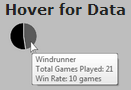
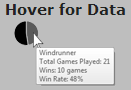
viz2: updated dod, created min value for radius bubble size, added charts to filter by type

Changed region(s): [[0.0611, 0.2222, 0.916, 0.9556]]

diff --git a/content/js/viz2_contentManager.js b/content/js/viz2_contentManager.js
@@ -1,12 +1,14 @@
   function viz2_contentManager() {
 	  
-	  if (default_view == true) {
+	  $('#ui-id-2').click(function(e) { 
+	  	if (default_view == true) {
 		    viz2_restablish_listview();
 			generateContent_viz2_byPopularity();
 		    popularity_exists = true;
 			default_view = false;
+		}
 		  
-	  }
+	  });
 	  
 	  $('#filterby_popularity').click(function(e) { 
 	  		if (popularity_exists == false && default_view == false) {
@@ -22,6 +24,7 @@
 			popularity_exists = false;
 			viz2_byTypeWrapper();
 			viz2_content_byType(1);
+			d3.select('#fragment-2').attr('style', 'height: 2250px');
 			
 			
 		});
@@ -30,6 +33,7 @@
 			popularity_exists = false;
 			viz2_byTypeWrapper();
 			viz2_content_byType(2);
+			d3.select('#fragment-2').attr('style', 'height: 2200px');
 			
 		});
 	$('#filterby_type_offlane').click(function(e) { 
@@ -37,6 +41,7 @@
 			popularity_exists = false;
 			viz2_byTypeWrapper();
 			viz2_content_byType(3);
+			d3.select('#fragment-2').attr('style', 'height: 1750px');
 			
 		});
 	$('#filterby_type_jungler').click(function(e) { 
@@ -44,6 +49,7 @@
 			popularity_exists = false;
 			viz2_byTypeWrapper();
 			viz2_content_byType(4);
+			d3.select('#fragment-2').attr('style', 'height: 1300px');
 			
 		});
 	$('#filterby_type_support').click(function(e) { 
@@ -51,6 +57,7 @@
 			popularity_exists = false;
 			viz2_byTypeWrapper();
 			viz2_content_byType(5);
+			d3.select('#fragment-2').attr('style', 'height: 2800px');
 		});
 		
   }
@@ -62,6 +69,8 @@
 		viz2content_outerLayer.append('div').attr('id', 'fragment-2-charts').attr('style', 'width:500px; float: left;');
 		viz2content_outerLayer.append('div').attr('id', 'fragment-2-left-info').attr('style', 'float: left; margin-left:20px;');
 		
+		d3.select('#fragment-2').attr('style', 'height: 9290px');
+		
   }
   
   function viz2_byTypeWrapper() {
@@ -69,5 +78,7 @@
 		d3.select('#viz2_content').remove();
 		var viz2content_outerLayer_byTypeWrapper = d3.select('#viz2_content_wrapper').append('div').attr('id', 'viz2_content');
 		viz2content_outerLayer_byTypeWrapper.append('div').attr('id', 'fragment-2-charts').attr('style', 'width:500px; float: left;');
+		
+		//d3.select('#fragment-2').attr('style', 'height: 1040px');
 		
   }

diff --git a/content/js/bubbles.js b/content/js/bubbles.js
@@ -1,4 +1,5 @@
 function bubbles(rowNum, viz2_heroes, viz2_gamesPlayed, viz2_gamesWon , viz2_gamesLost, namingNum, clusterNum, ww, hh) {
+	
 	var num = 0;
 	var idNum = namingNum;
 	
@@ -100,23 +101,31 @@ function bubbles(rowNum, viz2_heroes, viz2_gamesPlayed, viz2_gamesWon , viz2_gam
 		var winOrLoseRate = d3.select(this.parentNode).attr("fill");
 		if (winOrLoseRate == winColor )
 		{
-			rateString = "Win Rate: "+viz2_gamesWon[replacementString]+" games";
+			rateString = "Wins: "+viz2_gamesWon[replacementString]+" games";
+			percent_rateString = "Win Rate: " + Math.round((((viz2_gamesWon[replacementString])/(viz2_gamesPlayed[replacementString]))*100)) + "%";
 		}
 		else if (winOrLoseRate == loseColor)
 		{
-			rateString = "Lose Rate: " +viz2_gamesLost[replacementString]+ " games";
+			rateString = "Losses: " +viz2_gamesLost[replacementString]+ " games";
+			percent_rateString = "Lose Rate: " + Math.round((((viz2_gamesLost[replacementString])/(viz2_gamesPlayed[replacementString]))*100)) + "%";
 		}
 
-		return viz2_heroes[replacementString] + "\nTotal Games Played: " + viz2_gamesPlayed[replacementString] + "\n" + rateString;
+		return viz2_heroes[replacementString] + "\nTotal Games Played: " + viz2_gamesPlayed[replacementString] + "\n" + rateString + "\n" + percent_rateString;
 		});
 
 
 	for (i=0;i<viz2_gamesPlayed.length;i++){
+		if (viz2_gamesPlayed[i] < 5) {
+			radius_withMinimum  = 5;
+		}
+		else {
+			radius_withMinimum = viz2_gamesPlayed[i];
+		}
 		//console.log("#node_"+i)
 		var newNamingNum = namingNum+i;
 		d3.select("#node_"+newNamingNum).selectAll("path")
 		.attr("d", d3.svg.arc()
-        .outerRadius(viz2_gamesPlayed[i])
+        .outerRadius(radius_withMinimum)
         .innerRadius(0));
 	}
 		

diff --git a/content/js/viz2_content_byType.js b/content/js/viz2_content_byType.js
@@ -16,8 +16,23 @@ function viz2_content_byType(typeKind) {
 			  }
 			  
 		  })
-		  console.log(typeKind_rowNum);
 		   bubbles(typeKind_rowNum, typeKind_heroes, typeKind_gamesPlayed, typeKind_gamesWon , typeKind_gamesLost, 0 , 0, 1000, 800);
+		   
+		   
+		   //d3.select('#fragment-2-charts').append('div').attr("id", "content_byType_tables").text("helllllloooooo");
+		   
+		  for (i = 0; i < typeKind_rowNum; i++){
+		  d3.select('#fragment-2-charts')
+		  var headLeader = d3.select('#fragment-2-charts').append('table').attr("id", "fragment-2-charts-byType");
+		  
+		  headLeader.append('tr').attr("style", 	"");
+		  headLeader.append('td').text(function(d){return typeKind_heroes[i];}).attr("style", " padding:15px; width:130px; background-color:#bcbab8;");
+		  headLeader.append('td').text(function(d){return typeKind_gamesWon[i];}).attr("style", "padding:15px; background-color:#00b441; width:30px;");
+		  headLeader.append('td').text(function(d){return typeKind_gamesLost[i];}).attr("style", "padding:15px; background-color:#000000; color:white; width:30px;");
+		  headLeader.append('td').text(function(d){return typeKind_gamesPlayed[i];}).attr("style", "padding:15px; width:30px; background-color:#ae3e2d;color:white;");
+		  }
+		  
+		  
 	   });
 	
 	 

diff --git a/content/css/windrunner.css b/content/css/windrunner.css
@@ -1,5 +1,5 @@
 html { 
-        background: url('http://wallpoper.com/images/00/26/91/91/minimalistic-dark_00269191.jpg') no-repeat center center fixed; 
+        background: url('/content/images/background.jpg') no-repeat center center fixed; 
         -webkit-background-size: cover;
         -moz-background-size: cover;
         -o-background-size: cover;

diff --git a/content/js/viz2_content_byPopularity.js b/content/js/viz2_content_byPopularity.js
@@ -15,6 +15,7 @@
 	   d3.csv('content/data/heroAvgs.csv', function(data) {
 		  data.forEach(function(d) {	
 			  rowNum++;	
+			  
 			  viz2_gamesPlayed.push(+d.numMatches);
 			  viz2_gamesWon.push(+d.numWins);
 			  viz2_gamesLost.push((+d.numMatches)-(+d.numWins));
